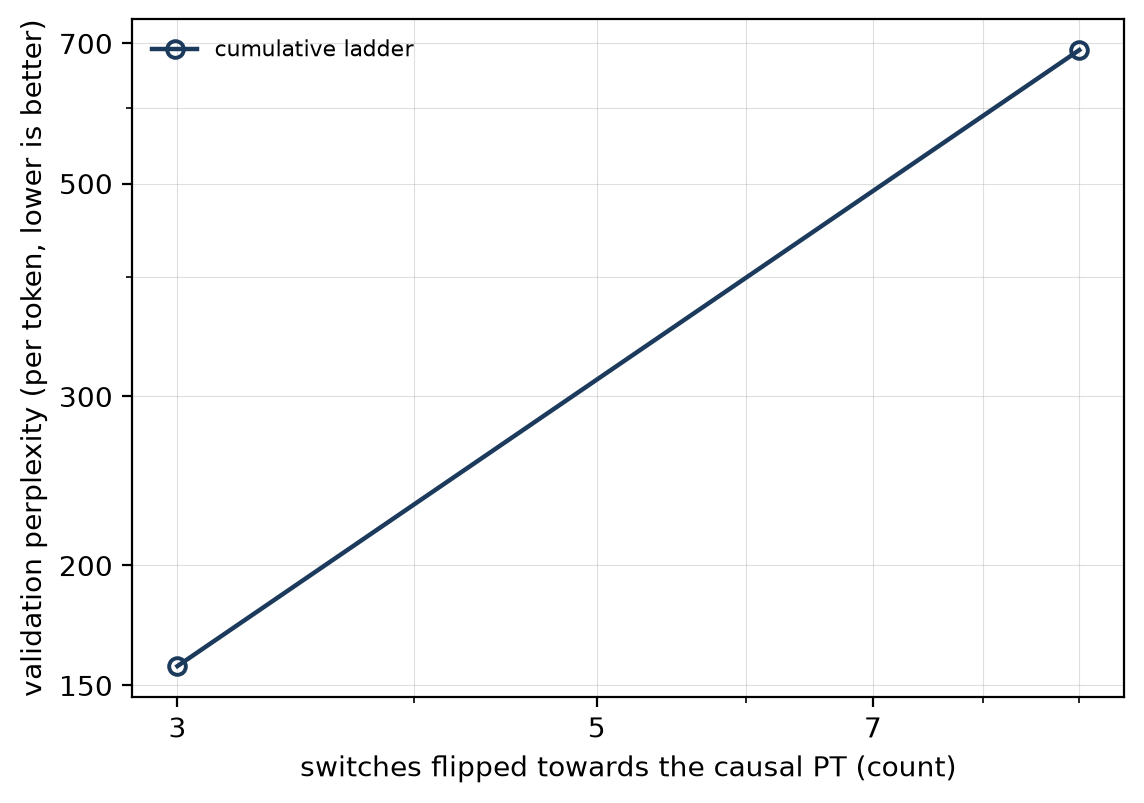
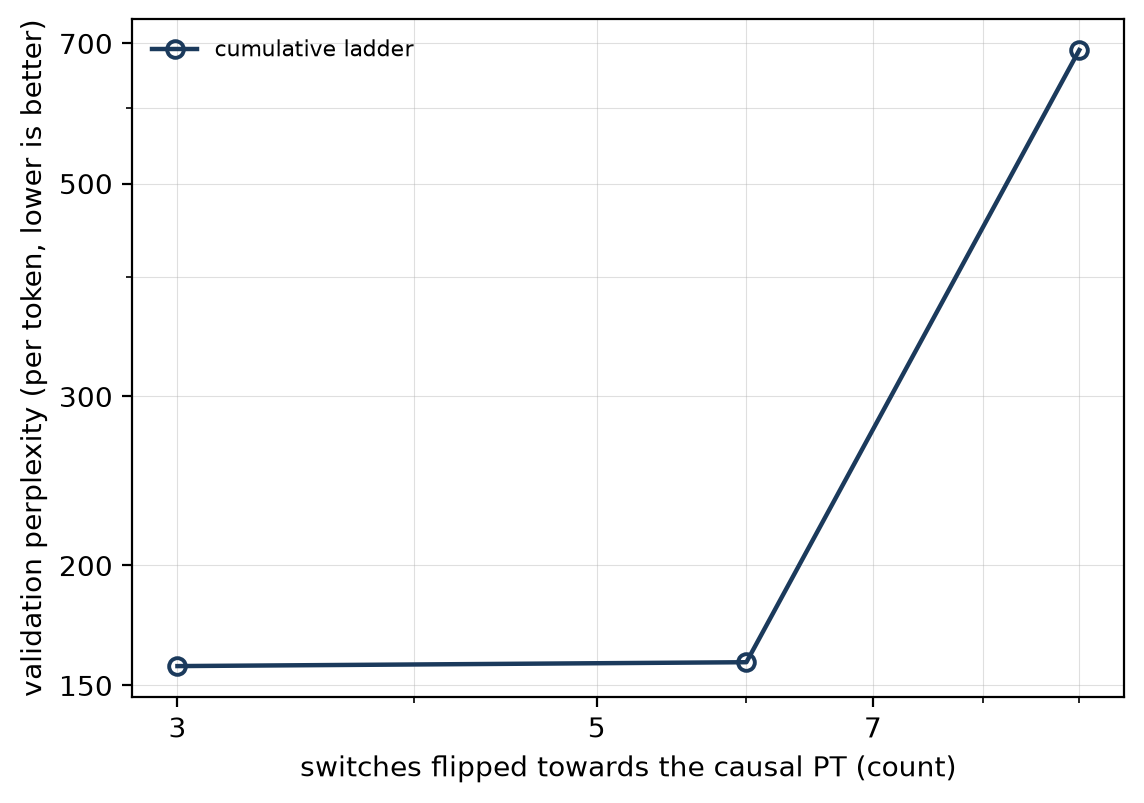
v1.7.3 [docs]: regenerated figures and tables

diff --git a/paper/figures/table_switches.tex b/paper/figures/table_switches.tex
@@ -4,13 +4,14 @@
 switch & S1 val & $\Delta$ & S2 val & $\Delta$ \\
 \midrule
 attn\_out\_proj & --- & --- & 686.9 & +0.2 \\
-attn\_query\_proj & 131.1 & +1.9 & --- & --- \\
+attn\_query\_proj & 131.1 & +1.9 & 564.1 & +123.0 \\
 attn\_value & 128.7 & -0.6 & --- & --- \\
 ffn & 144.4 & +15.1 & 686.9 & +0.3 \\
 norm & 128.6 & -0.7 & 686.8 & +0.4 \\
-position & 128.9 & -0.4 & --- & --- \\
+position & 128.9 & -0.4 & 530.6 & +156.6 \\
+readout & --- & --- & 688.8 & -1.6 \\
 residual & 136.7 & +7.5 & --- & --- \\
-state & 693.8 & +564.5 & --- & --- \\
+state & 693.5 & +564.3 & --- & --- \\
 weight\_sharing & 144.2 & +14.9 & 687.2 & +0.0 \\
 \bottomrule
 \end{tabular}
